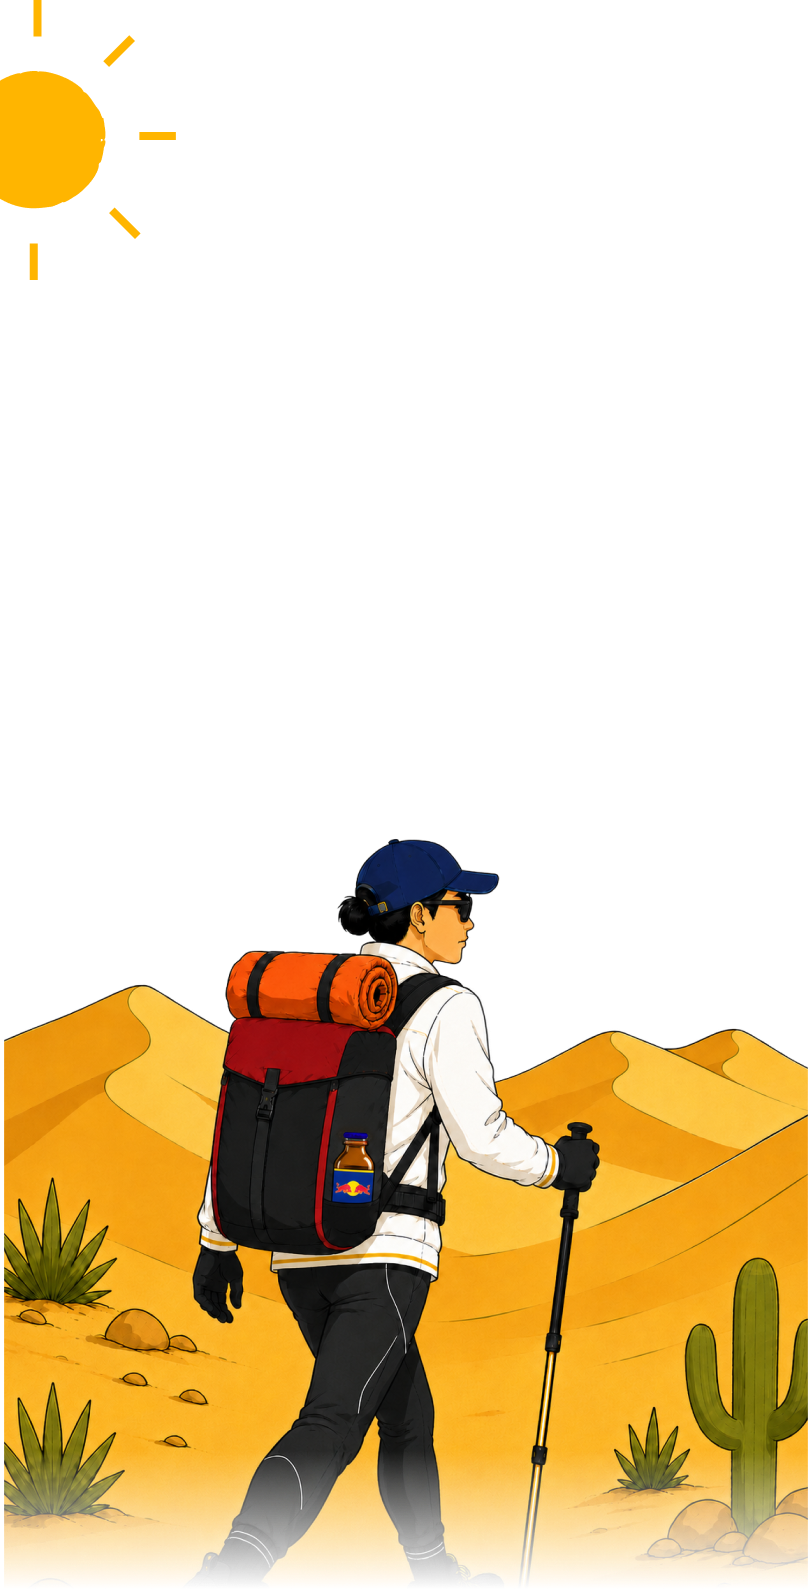
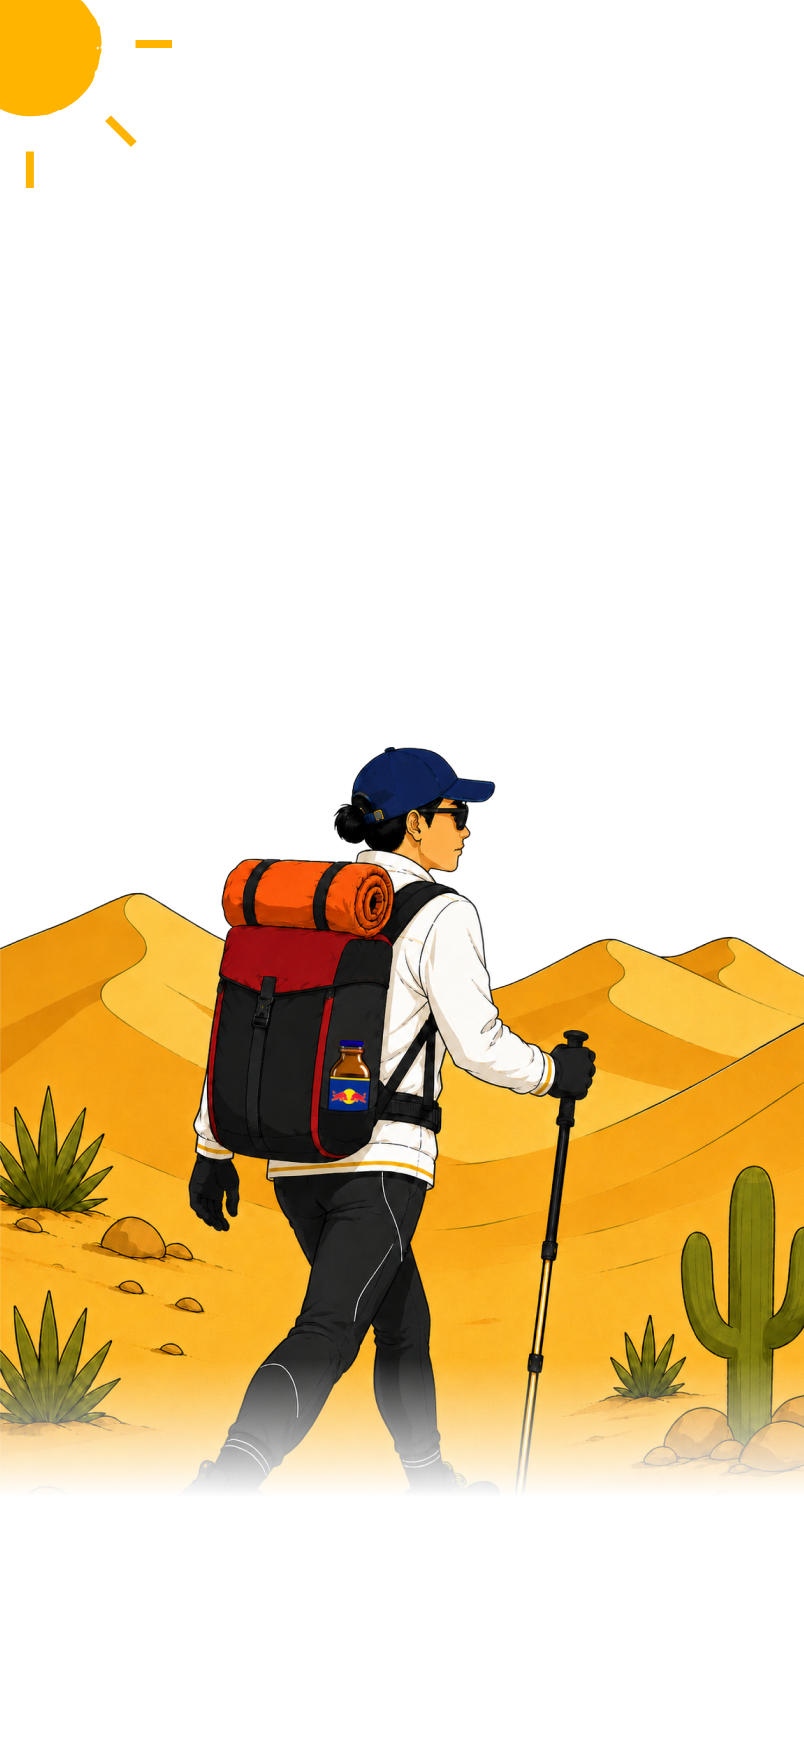
Style : fix

diff --git a/src/components/survey-story-step.tsx b/src/components/survey-story-step.tsx
@@ -1,25 +1,45 @@
+import type { ReactNode } from "react";
 import type { StoryStep } from "@/lib/config";
 import { Story0 } from "./story-steps/story-0";
 import { StoryBridge } from "./story-steps/story-bridge";
+import { NextButton } from "./ui/next-button";
 
 interface SurveyStoryStepProps {
-	onNext?: () => void;
+	onNext: () => void;
 	story: StoryStep;
 }
 
-export function SurveyStoryStep({ story }: SurveyStoryStepProps) {
+export function SurveyStoryStep({ onNext, story }: SurveyStoryStepProps) {
+	const buttonLabel = story.id === "7" ? "เปิดพลังของฉัน!" : "ไปต่อ";
+	let content: ReactNode;
+
 	switch (story.id) {
 		case "0":
-			return <Story0 story={story} />;
+			content = <Story0 story={story} />;
+			break;
 		case "story-1":
-			return <Story0 story={story} />;
+			content = <Story0 story={story} />;
+			break;
 		case "story-1-1":
-			return <StoryBridge story={story} />;
+			content = <StoryBridge story={story} />;
+			break;
 		case "story-1-2":
-			return <StoryBridge story={story} />;
+			content = <StoryBridge story={story} />;
+			break;
 		case "story-2":
-			return <Story0 story={story} />;
+			content = <Story0 story={story} />;
+			break;
 		default:
-			return <Story0 story={story} />;
+			content = <Story0 story={story} />;
+			break;
 	}
+
+	return (
+		<>
+			{content}
+			<div className="relative z-10 mt-auto flex w-full items-center justify-center pb-[3rem]">
+				<NextButton onClick={onNext}>{buttonLabel}</NextButton>
+			</div>
+		</>
+	);
 }

diff --git a/src/app/page.tsx b/src/app/page.tsx
@@ -7,7 +7,6 @@ import { SurveyNameStep } from "@/components/survey/survey-name-step";
 import { SurveyChoiceQuestionPage } from "@/components/survey-question-page";
 import { SurveyStoryStep } from "@/components/survey-story-step";
 import { SurveyTextQuestionPage } from "@/components/survey-text-question-page";
-import { NextButton } from "@/components/ui/next-button";
 import { SurveyCountdownStep } from "@/features/countdown-page/components/survey-countdown-step";
 import { SurveySummaryStep } from "@/features/summary-page/components/survey-summary-step";
 import { totalQuestionCount } from "@/lib/config";
@@ -17,7 +16,6 @@ function HomeContent() {
 	const {
 		state,
 		currentStep,
-		canContinue,
 		isResultStep,
 		winningPower,
 		daysLived,
@@ -92,15 +90,6 @@ function HomeContent() {
 			});
 	}, [isResultStep, state]);
 
-	// Hide Navigation Settings based on active step to match transition
-	const showNavigation =
-		activeStep.type !== "name" &&
-		activeStep.type !== "birthDate" &&
-		activeStep.type !== "choice" &&
-		activeStep.type !== "countdown" &&
-		activeStep.type !== "text" &&
-		activeStep.type !== "result";
-
 	const isActiveResultStep = activeStep.type === "result";
 
 	return (
@@ -135,7 +124,7 @@ function HomeContent() {
 						width={56}
 					/>
 					{activeStep.type === "intro" ? (
-						<SurveyIntroPage step={activeStep} />
+						<SurveyIntroPage onNext={nextStep} step={activeStep} />
 					) : null}
 
 					{activeStep.type === "countdown" ? (
@@ -186,7 +175,7 @@ function HomeContent() {
 					) : null}
 
 					{activeStep.type === "story" ? (
-						<SurveyStoryStep story={activeStep} />
+						<SurveyStoryStep onNext={nextStep} story={activeStep} />
 					) : null}
 
 					{isActiveResultStep ? (
@@ -195,16 +184,6 @@ function HomeContent() {
 							power={winningPower}
 							state={state}
 						/>
-					) : null}
-
-					{showNavigation ? (
-						<div className="relative z-10 mt-auto flex w-full items-center justify-center pb-[3rem]">
-							<NextButton disabled={!canContinue} onClick={nextStep}>
-								{activeStep.type === "story" && activeStep.id === "ending"
-									? "เปิดพลังของฉัน!"
-									: "ไปต่อ"}
-							</NextButton>
-						</div>
 					) : null}
 				</div>
 			</main>

diff --git a/src/components/survey/survey-intro-page.tsx b/src/components/survey/survey-intro-page.tsx
@@ -1,13 +1,15 @@
 import Image from "next/image";
 import Intro0 from "@/components/text/intro0";
 import Intro1 from "@/components/text/intro1";
+import { NextButton } from "@/components/ui/next-button";
 import type { IntroStep } from "@/lib/config";
 
 interface IntroPageProps {
+	onNext: () => void;
 	step: IntroStep;
 }
 
-export function SurveyIntroPage({ step }: IntroPageProps) {
+export function SurveyIntroPage({ onNext, step }: IntroPageProps) {
 	return (
 		<div className="absolute inset-0 z-0">
 			{step.topImage === "/intro/intro0-text.svg" && (
@@ -24,13 +26,18 @@ export function SurveyIntroPage({ step }: IntroPageProps) {
 			{step.bottomImage && (
 				<Image
 					alt={step.id}
-					className="pointer-events-none absolute bottom-0 left-0 z-0 w-full object-cover"
+					className="pointer-events-none absolute top-0 left-0 z-0 w-full object-cover"
 					height={500}
 					preload
 					src={step.bottomImage}
 					width={800}
 				/>
 			)}
+			<div className="absolute inset-x-0 bottom-[3rem] z-10 flex justify-center">
+				<NextButton onClick={onNext}>
+					{step.id === "intro" ? "เริ่มเลย!" : "ก้าวสู่ทะเลทราย"}
+				</NextButton>
+			</div>
 		</div>
 	);
 }

diff --git a/src/components/survey-question-page.tsx b/src/components/survey-question-page.tsx
@@ -37,14 +37,13 @@ export function SurveyChoiceQuestionPage({
 					value={progressValue}
 				/>
 
-				{/* TODO: This is not the final design now it just a mockup */}
-				<div className="space-y-6 pt-4">
+				<div className="">
 					<h2
-						className="mx-auto max-w-2xl whitespace-pre-line text-center text-[#1c2b59] text-[2.2rem] leading-tight sm:text-3xl"
+						className="mx-auto max-w-2xl whitespace-pre-line pb-4 text-center text-[#1c2b59] text-[2.5rem] leading-10"
 						// biome-ignore lint/security/noDangerouslySetInnerHtml: <the html is safe from config>
 						dangerouslySetInnerHTML={{ __html: question.prompt }}
 					/>
-					<div className="mx-auto mt-8 grid max-w-2xl gap-[1rem]">
+					<div className="mx-auto grid max-w-2xl gap-[1rem]">
 						{question.options.map((option, index) => {
 							const inputId = `${question.id}-${option.value}`;
 							const isSelected = answers[question.id] === option.value;

diff --git a/src/lib/config.ts b/src/lib/config.ts
@@ -177,7 +177,7 @@ export const surveySteps: SurveyStep[] = [
 		id: "2",
 		type: "choice",
 		prompt:
-			"<span class='text-[#151F6D]'>วิ่งมาแล้วเกือบครึ่งทาง</span><br/><span class='text-[#E4002B]'>แต่น้ำใกล้หมด</span> <span class='text-[#151F6D]'><br/>จะไหวไหมเนี่ย?</span>",
+			"<span class='text-[#151F6D]'>วิ่งมาแล้วเกือบครึ่งทาง</span><br/><span class='text-[#E4002B]'>แต่น้ำใกล้หมด</span> <span class='text-[#151F6D]'>จะไหวไหมเนี่ย?</span>",
 		options: [
 			{ value: "A", label: "อย่างน้อยก็เหลือ", powerId: "5" },
 			{ value: "B", label: "หันไปถามเพื่อนข้างๆ ว่าไหวไหม", powerId: "6" },
@@ -228,7 +228,7 @@ export const surveySteps: SurveyStep[] = [
 		id: "4",
 		type: "choice",
 		prompt:
-			"<span class='text-[#151F6D]'>นักวิ่งข้างๆ เริ่มถอดใจ</span> <span class='text-[#E4002B]'>คุณจะบอกว่า...</span>",
+			"<span class='text-[#151F6D]'>นักวิ่งข้างๆ เริ่มถอดใจ<br/>คุณจะบอกว่า...</span>",
 		options: [
 			{ value: "A", label: "เฮ้ย! มานี่ไปวิ่งด้วยกัน", powerId: "6" },
 			{ value: "B", label: "เปลี่ยนไปวิ่งเส้นทางที่ง่ายขึ้นมั้ย?", powerId: "7" },